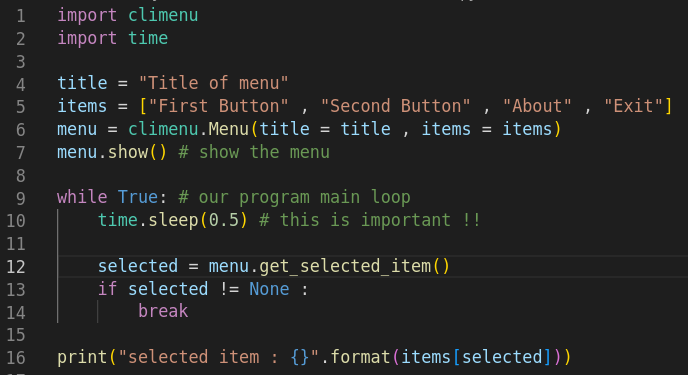
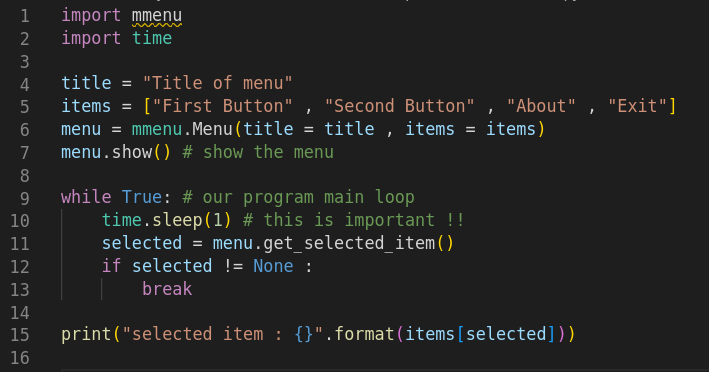
change names from climenu to mmenu

diff --git a/Examples/reCreate_example.py b/Examples/reCreate_example.py
@@ -1,11 +1,11 @@
-import climenu
+import mmenu
 import time
 
 title1 = "Title of menu 1"
 title2 = "Title of menu 2"
 items1 = ["goto menu 2" , "alaki" , "About" , "Exit"]
 items2 = ["first item" , "second item" , "back"]
-menu = climenu.Menu(title = title1 , items = items1)
+menu = mmenu.Menu(title = title1 , items = items1)
 menu.show() # show the menu
 
 while True: # our program main loop

diff --git a/Examples/too_many_items.py b/Examples/too_many_items.py
@@ -1,4 +1,4 @@
-import climenu
+import mmenu
 import time
 
 title = "Title of menu"
@@ -6,7 +6,7 @@ items = []
 for i in range(1,101):
     items.append("Item {}".format(i))
 
-menu = climenu.Menu(title = title , items = items)
+menu = mmenu.Menu(title = title , items = items)
 menu.show() # show the menu
 
 while True: # our program main loop

diff --git a/Examples/first_menu.py b/Examples/first_menu.py
@@ -1,9 +1,9 @@
-import climenu
+import mmenu
 import time
 
 title = "Title of menu"
 items = ["First Button" , "Second Button" , "About" , "Exit"]
-menu = climenu.Menu(title = title , items = items)
+menu = mmenu.Menu(title = title , items = items)
 menu.show() # show the menu
 
 while True: # our program main loop

diff --git a/README.md b/README.md
@@ -1,16 +1,16 @@
-# climenu Ver 1.0
-**climenu** is a simple and lightweight python library for creating console-based menus (windows / linux) . 
+# mmenu Ver 1.0
+**mmenu** is a simple and lightweight python library for creating console-based menus (windows / linux) . 
 
 # INSTALLATION
 it can installed using **pip** :
-**Linux** : ```python3 -m pip install climenu```
-or **Windows** : ``` pip install climenu```
+**Linux** : ```python3 -m pip install mmenu```
+or **Windows** : ``` pip install mmenu```
 
 
 # Creating the first menu !
-![creating the first menu](https://bayanbox.ir/download/3487373414280679516/Screenshot-from-2022-06-04-08-42-49.png)
+![creating the first menu](.Pictures/source1.png)
 at first we declare our menu items in the "items" list as strings . 
-then we create a menu using ```climenu.Menu(title , items)``` function . after that , we can show our menu using ```menu.show()``` method. 
+then we create a menu using ```mmenu.Menu(title , items)``` function . after that , we can show our menu using ```menu.show()``` method. 
 * we should make a loop in our program .
 * in our while loop we should use a **sleep** (ex : 0.5s sleep)
 
@@ -19,7 +19,7 @@ then we create a menu using ```climenu.Menu(title , items)``` function . after t
 once we get selected item by this function , the next round this function returns **None** until user selects another item so we should save the result of this function in a variable at the first of loop (```selected``` variable) .
 
 Result : 
-![result 1](https://bayanbox.ir/download/8511832187448090403/result1.png)
+![result 1](.Pictures/result1.png)
 # Locking and Unlocking Menu
 the two methods ```menu.lock()``` and ```menu.unlock()``` , can lock or unlock the menu . when menu is locked , user can't navigate or select anything on it .
 
@@ -32,13 +32,13 @@ example : ```menu.updateItem(2 , "Contact")```  . this changes item index 2 in t
 sometimes we want to have some items that can create a new menu when user selects that . ```menu.reCreate(new_title , new_items)``` can do this . ```new_title``` is the title of the new menu and ```new_items``` is a list that contains the items of new menu . 
 
 example : 
-![reCreate menu example](https://bayanbox.ir/download/6656962699725900016/source2.png)
+![reCreate menu example](.Pictures/source2.png)
 after running this source , if we select "goto menu 2" item , a new menu appears (menu 2) ...
 
 
 # Auto Scrolling  
-if your items are too many , don't worry ! climenu simulate a scrolling state for items :
-![too many item scrolling](https://bayanbox.ir/download/5294191248785483173/toomanyitem.gif)
+if your items are too many , don't worry ! mmenu simulate a scrolling state for items :
+![too many item scrolling](.Pictures/toomanyitem.gif)
 
 
 
